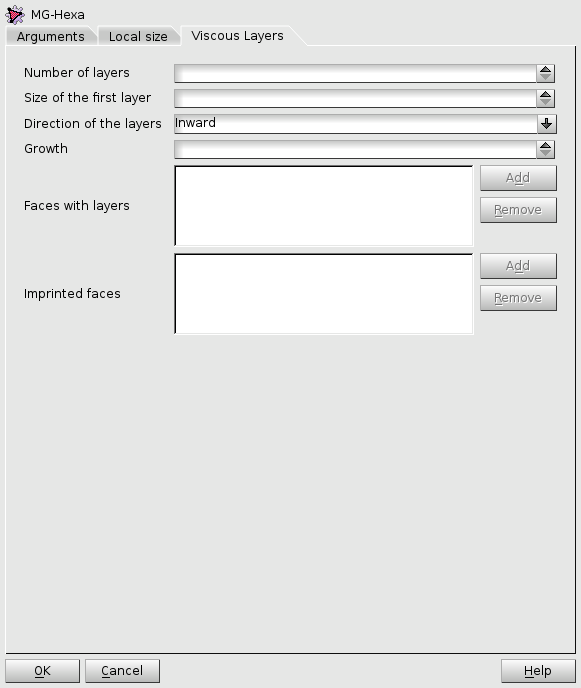
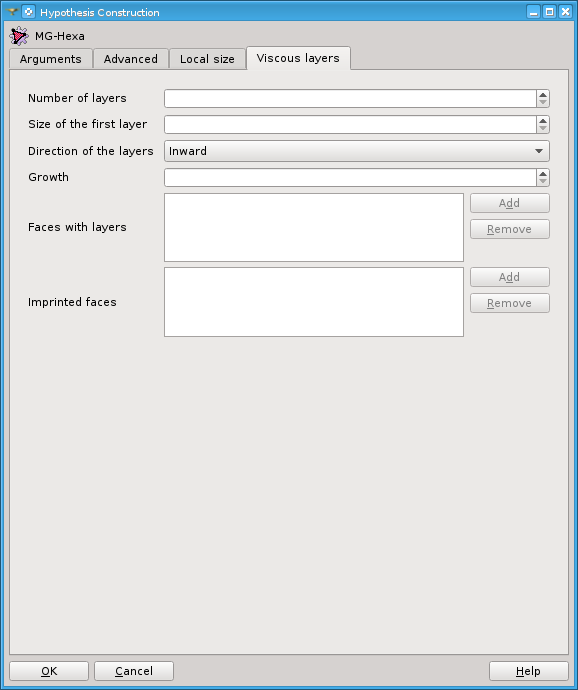
23307: [EDF 7315] Improvement of DISTENE meshing plugins

Changed region(s): [[0.0, 0.0, 1.0, 1.0], [0.7785, 0.4578, 0.8097, 0.4884]]

diff --git a/src/HexoticPlugin/HexoticPLUGINBuilder.py b/src/HexoticPlugin/HexoticPLUGINBuilder.py
@@ -112,6 +112,13 @@ class Hexotic_Algorithm(Mesh_Algorithm):
         self.Parameters().UnsetSizeMap(theObject)
         return self.Parameters()
 
+    ## Set values of advanced options
+    #  @param theOptions string in a form "option_1 v1 option_2 v2"
+    def SetAdvancedOption(self, theOptions):
+        self.Parameters().SetAdvancedOption(theOptions)
+    def GetAdvancedOption(self):
+        return self.Parameters().GetAdvancedOption()
+
     ## (OBSOLETE) Defines "MinMaxQuad" hypothesis to give three MG-Hexa parameters
     #  @param min minimal level of recursive partitioning on the initial octree cube
     #  @param max maximal level of recursive partitioning on the initial octree cube

diff --git a/src/GUI/HexoticPluginGUI_HypothesisCreator.h b/src/GUI/HexoticPluginGUI_HypothesisCreator.h
@@ -41,6 +41,7 @@ class QTableWidgetItem;
 class HexoticPluginGUI_StdWidget;
 class HexoticPluginGUI_SizeMapsWidget;
 class HexoticPluginGUI_ViscousLayersWidget;
+class SMESH_AdvOptionsWdg;
 
 typedef struct
 {
@@ -101,9 +102,10 @@ private:
 
 private:
 
-//  QWidget* 		myStdGroup;
-  QLineEdit* 	myName;
-  HexoticPluginGUI_StdWidget*	         myStdWidget;
+//  QWidget*            myStdGroup;
+  QLineEdit*    myName;
+  HexoticPluginGUI_StdWidget*            myStdWidget;
+  SMESH_AdvOptionsWdg*                   myAdvWidget;
   HexoticPluginGUI_SizeMapsWidget*       mySmpWidget;
   HexoticPluginGUI_ViscousLayersWidget*  myVLWidget;
   StdMeshersGUI_ObjectReferenceParamWdg* myGeomSelWdg;
